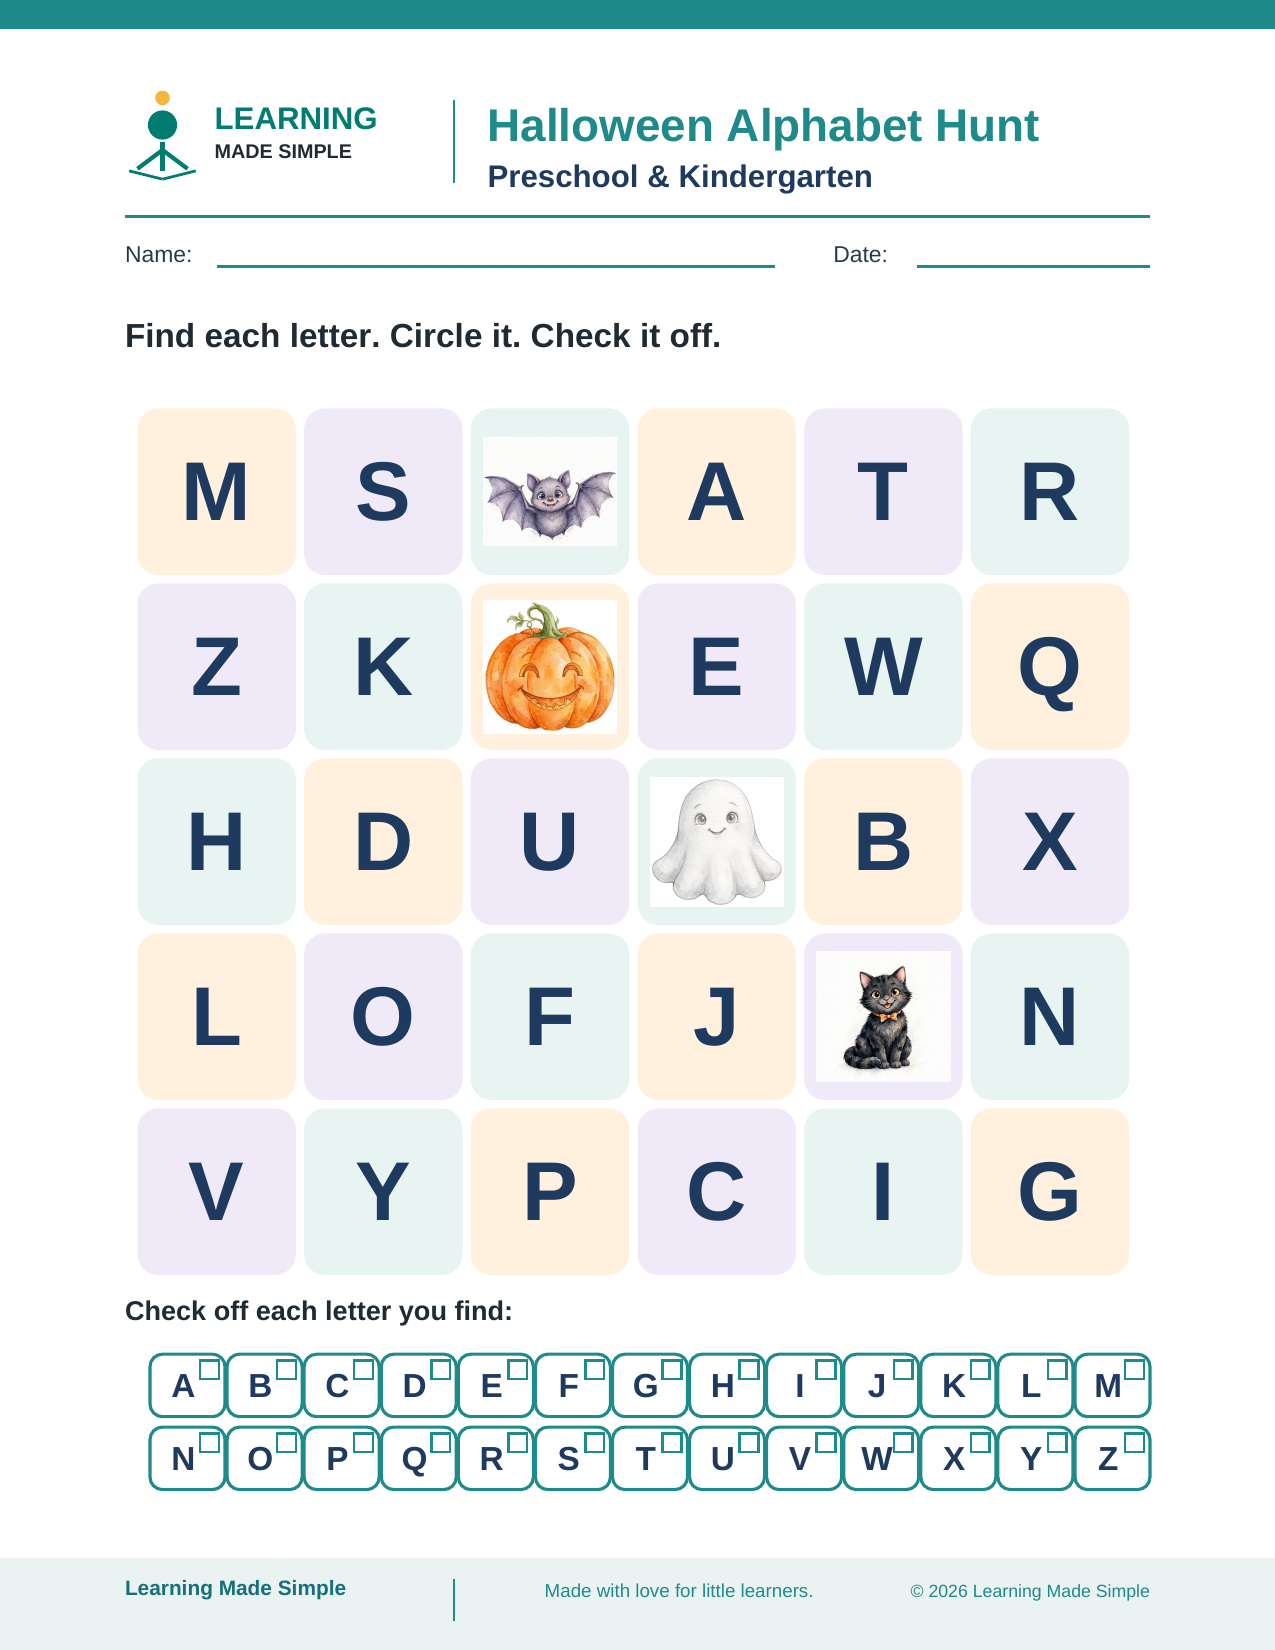
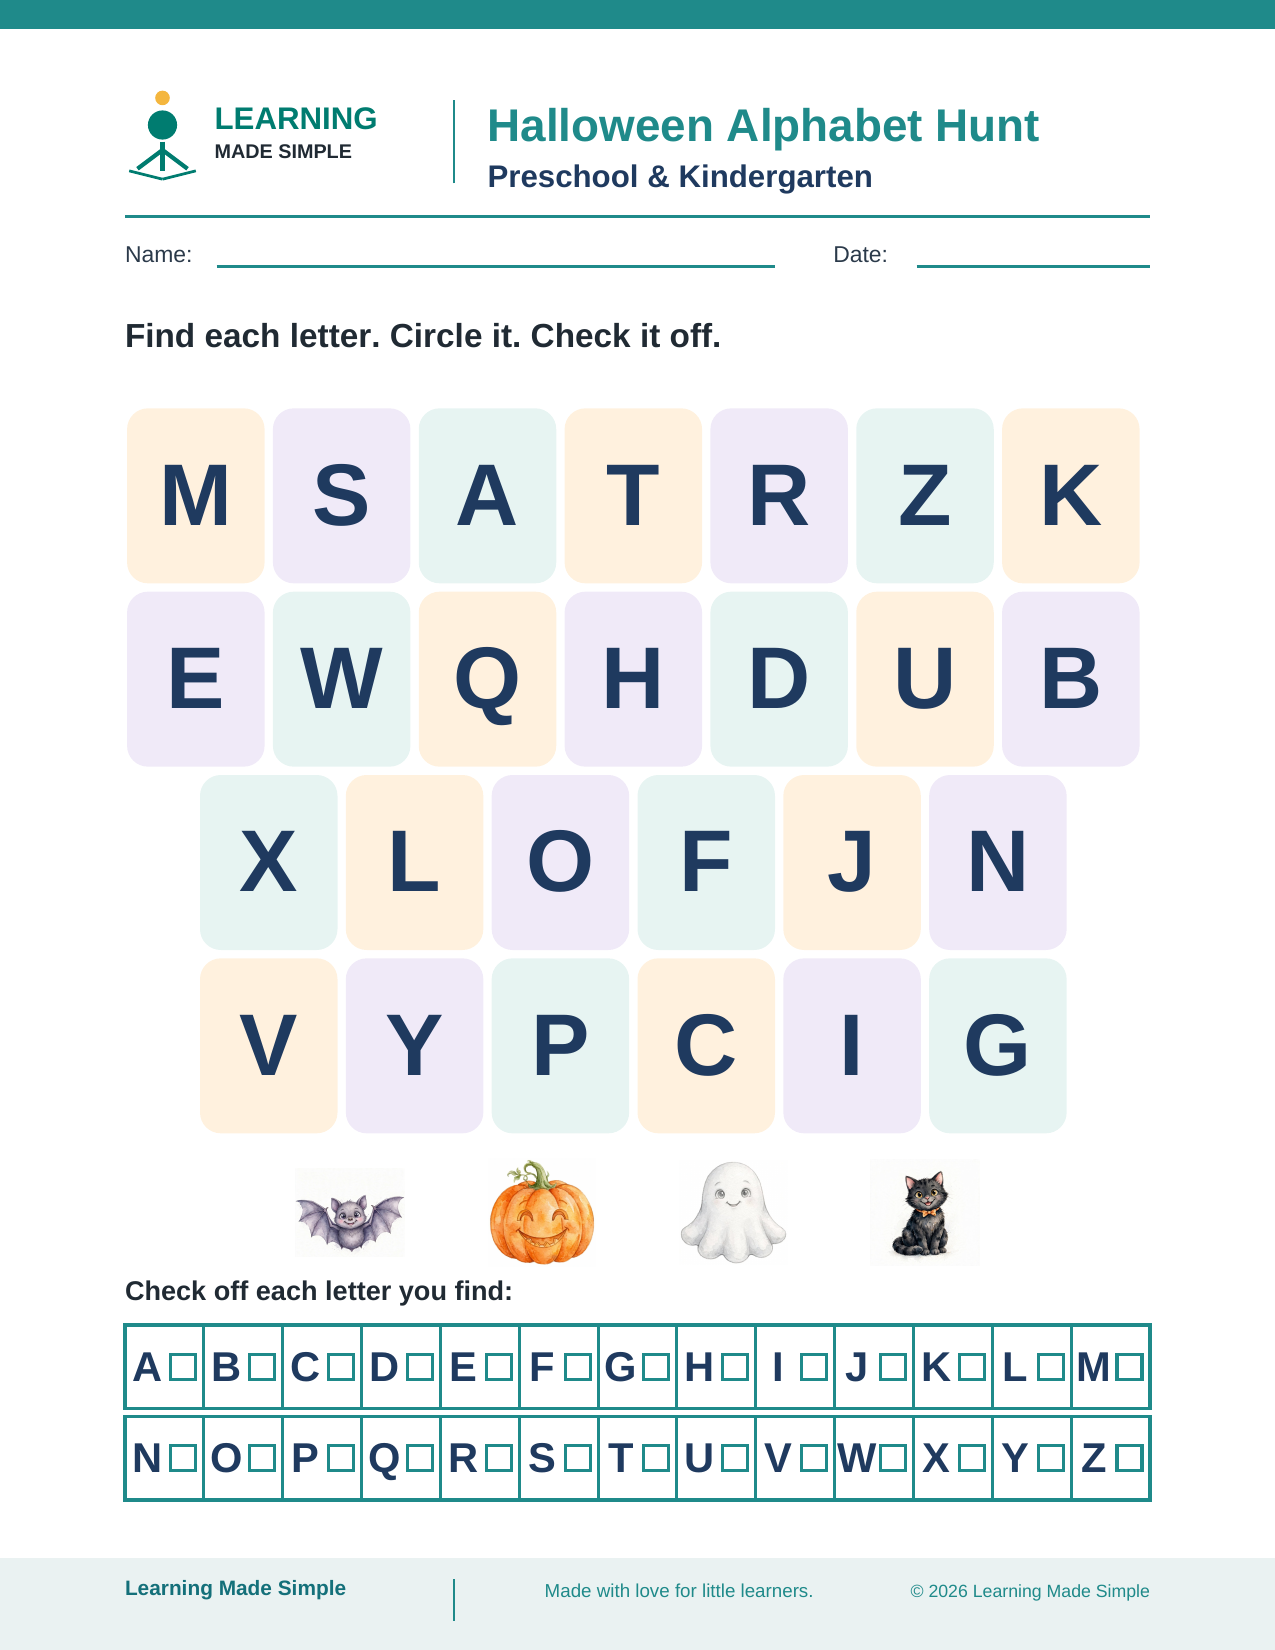
Halloween Fun & Learning: Alphabet Hunt corrected (letters-only grid, decorations outside, enlarged checklist)

diff --git a/worksheet-generator/build_halloween_hunt.py b/worksheet-generator/build_halloween_hunt.py
@@ -1,12 +1,13 @@
 #!/usr/bin/env python3
 """Halloween Fun & Learning (Preschool & Kindergarten), extra page:
-Halloween Alphabet Hunt, A to Z.
+Halloween Alphabet Hunt, A to Z (corrected version).
 
-A 6x5 letter grid holds all 26 uppercase letters exactly once, in
-mixed-up order, plus 4 friendly Halloween pictures as decoration.
-The child finds and circles each letter, then marks it on the A-Z
-checklist at the bottom (A-M, then N-Z). Large letters, spacious
-cells, minimal text. The Halloween ABC matching page is untouched.
+The hunt grid holds ONLY letters: all 26 uppercase letters exactly
+once, in mixed-up order, in rows of 7, 7, 6, 6. The four friendly
+Halloween pictures sit OUTSIDE the grid as small decorations in a row
+below it. The A-Z checklist at the bottom (A-M, then N-Z) is enlarged:
+bigger boxes, bigger letters, bigger checkboxes. The Halloween ABC
+matching page is untouched.
 """
 import os
 import string
@@ -26,24 +27,23 @@ NAVY = HexColor("#1F3A5F")
 INK = HexColor("#202A33")
 TINTS = [HexColor("#FFF1DE"), HexColor("#F0EAF8"), HexColor("#E7F4F2")]
 
-# Grid rows, top to bottom. ("L", letter) or ("P", image file).
+# Hunt grid rows, top to bottom: 7, 7, 6, 6 = 26 letters.
 GRID = [
-    [("L", "M"), ("L", "S"), ("P", "bat-trim.jpg"),
-     ("L", "A"), ("L", "T"), ("L", "R")],
-    [("L", "Z"), ("L", "K"), ("P", "pumpkin-trim.jpg"),
-     ("L", "E"), ("L", "W"), ("L", "Q")],
-    [("L", "H"), ("L", "D"), ("L", "U"), ("P", "ghost-trim.jpg"),
-     ("L", "B"), ("L", "X")],
-    [("L", "L"), ("L", "O"), ("L", "F"), ("L", "J"),
-     ("P", "cat-trim.jpg"), ("L", "N")],
-    [("L", "V"), ("L", "Y"), ("L", "P"), ("L", "C"),
-     ("L", "I"), ("L", "G")],
+    ["M", "S", "A", "T", "R", "Z", "K"],
+    ["E", "W", "Q", "H", "D", "U", "B"],
+    ["X", "L", "O", "F", "J", "N"],
+    ["V", "Y", "P", "C", "I", "G"],
 ]
+# Small decorations outside the grid, left to right.
+DECORATIONS = ["bat-trim.jpg", "pumpkin-trim.jpg",
+               "ghost-trim.jpg", "cat-trim.jpg"]
 
-LETTERS = [v for row in GRID for kind, v in row if kind == "L"]
-assert sorted(LETTERS) == list(string.ascii_uppercase), \
-    f"grid letters must be A-Z exactly once, got {sorted(LETTERS)}"
-assert len(LETTERS) == 26
+GRID_LETTERS = [ltr for row in GRID for ltr in row]
+assert sorted(GRID_LETTERS) == list(string.ascii_uppercase), \
+    f"grid must hold A-Z exactly once, got {sorted(GRID_LETTERS)}"
+assert len(GRID_LETTERS) == 26
+CHECKLIST = [string.ascii_uppercase[:13], string.ascii_uppercase[13:]]
+assert sorted("".join(CHECKLIST)) == list(string.ascii_uppercase)
 
 
 def build_hunt():
@@ -55,54 +55,63 @@ def build_hunt():
     pdf.setFont("Helvetica-Bold", 16)
     pdf.drawString(60, 625, "Find each letter. Circle it. Check it off.")
 
-    # Letter grid: 6 columns x 5 rows, cells 76x80 on an 80x84 pitch.
-    grid_x, grid_top = 66, 600
-    cell_w, cell_h, pitch_x, pitch_y = 76, 80, 80, 84
+    # Hunt grid: letters only. 7 columns max, cells 66x84 on a 70x88 pitch.
+    grid_top = 600
+    cell_w, cell_h, pitch_x, pitch_y = 66, 84, 70, 88
+    full_w = 7 * pitch_x
     for r, row in enumerate(GRID):
         y = grid_top - (r + 1) * pitch_y
-        for c, (kind, val) in enumerate(row):
-            x = grid_x + c * pitch_x
+        row_x0 = 61 + (full_w - len(row) * pitch_x) / 2
+        for c, ltr in enumerate(row):
+            x = row_x0 + c * pitch_x
             pdf.setFillColor(TINTS[(r + c) % 3])
             pdf.setStrokeColor(HexColor("#FFFFFF"))
             pdf.setLineWidth(1)
             pdf.roundRect(x, y, cell_w, cell_h, 10, stroke=0, fill=1)
-            if kind == "L":
-                pdf.setFillColor(NAVY)
-                pdf.setFont("Helvetica-Bold", 40)
-                pdf.drawCentredString(x + cell_w / 2, y + 26, val)
-            else:
-                pdf.drawImage(os.path.join(ASSETS, val),
-                              x + (cell_w - 64) / 2, y + (cell_h - 64) / 2,
-                              width=64, height=64, preserveAspectRatio=True,
-                              mask="auto")
+            pdf.setFillColor(NAVY)
+            pdf.setFont("Helvetica-Bold", 42)
+            pdf.drawCentredString(x + cell_w / 2, y + 28, ltr)
 
-    # Checklist: A-M, then N-Z, in two rows of 13 boxes.
+    # Small Halloween decorations outside the grid, in a centered row.
+    deco_size, deco_gap = 52, 40
+    deco_y = 184
+    deco_total = len(DECORATIONS) * deco_size + \
+        (len(DECORATIONS) - 1) * deco_gap
+    deco_x0 = (PAGE_WIDTH - deco_total) / 2
+    for i, img in enumerate(DECORATIONS):
+        x = deco_x0 + i * (deco_size + deco_gap)
+        pdf.drawImage(os.path.join(ASSETS, img), x, deco_y,
+                      width=deco_size, height=deco_size,
+                      preserveAspectRatio=True, mask="auto")
+
+    # Enlarged checklist: A-M, then N-Z. Letter plus a big checkbox
+    # side by side in each box.
     pdf.setFillColor(INK)
     pdf.setFont("Helvetica-Bold", 13)
-    pdf.drawString(60, 158, "Check off each letter you find:")
-    box_w, box_h, pitch = 36, 30, 37
-    box_x0 = 72
-    for r, letters in enumerate([string.ascii_uppercase[:13],
-                                 string.ascii_uppercase[13:]]):
-        y = 112 - r * 35
+    pdf.drawString(60, 168, "Check off each letter you find:")
+    box_w = (PAGE_WIDTH - 120) / 13
+    box_h = 40
+    for r, letters in enumerate(CHECKLIST):
+        y = 116 - r * 44
         for i, ltr in enumerate(letters):
-            x = box_x0 + i * pitch
+            x = 60 + i * box_w
             pdf.setFillColor(HexColor("#FFFFFF"))
             pdf.setStrokeColor(TEAL)
             pdf.setLineWidth(1.5)
-            pdf.roundRect(x, y, box_w, box_h, 6, stroke=1, fill=1)
+            pdf.rect(x, y, box_w, box_h, stroke=1, fill=1)
             pdf.setFillColor(NAVY)
-            pdf.setFont("Helvetica-Bold", 16)
-            pdf.drawCentredString(x + box_w / 2 - 2, y + 9, ltr)
+            pdf.setFont("Helvetica-Bold", 20)
+            pdf.drawCentredString(x + 11, y + 13, ltr)
             pdf.setStrokeColor(TEAL)
-            pdf.setLineWidth(1.2)
-            pdf.rect(x + box_w - 12, y + box_h - 12, 9, 9,
-                     stroke=1, fill=0)
+            pdf.setLineWidth(1.5)
+            pdf.rect(x + 22, y + 14, 12, 12, stroke=1, fill=0)
 
     draw_footer(pdf)
     pdf.showPage()
     pdf.save()
     print(f"wrote {path}")
+    print(f"grid letters: {len(GRID_LETTERS)} unique, "
+          f"checklist letters: {sum(len(r) for r in CHECKLIST)} unique")
 
 
 if __name__ == "__main__":

diff --git a/tmp/reviews/halloween-fun-learning/plan.md b/tmp/reviews/halloween-fun-learning/plan.md
@@ -21,11 +21,12 @@ one clear learning objective per page.
    Objective: hear the first sound in a Halloween word and match the
    picture to its beginning letter.
    Answers: bat to B, pumpkin to P, ghost to G, cat to C.
-Extra page: Halloween Alphabet Hunt, A to Z (BUILT, awaiting approval):
-   6-by-5 grid with all 26 uppercase letters exactly once in mixed-up
-   order, plus the 4 friendly Halloween pictures as decoration. Children
-   find and circle each letter, then mark it on the A-Z checklist at the
-   bottom (A-M, then N-Z, each box with a small checkbox).
+Extra page: Halloween Alphabet Hunt, A to Z (CORRECTED, awaiting approval):
+   Letters-only hunt grid with all 26 uppercase letters exactly once in
+   mixed-up order (rows of 7, 7, 6, 6); the 4 friendly Halloween pictures
+   sit outside the grid as small decorations below it. Children find and
+   circle each letter, then mark it on the enlarged A-Z checklist at the
+   bottom (A-M, then N-Z, each box with a big letter and a big checkbox).
    Objective: recognize all 26 uppercase letters and track found letters
    on a checklist.
 2. Count the Halloween Treats (1–10): count groups of Halloween treats and
